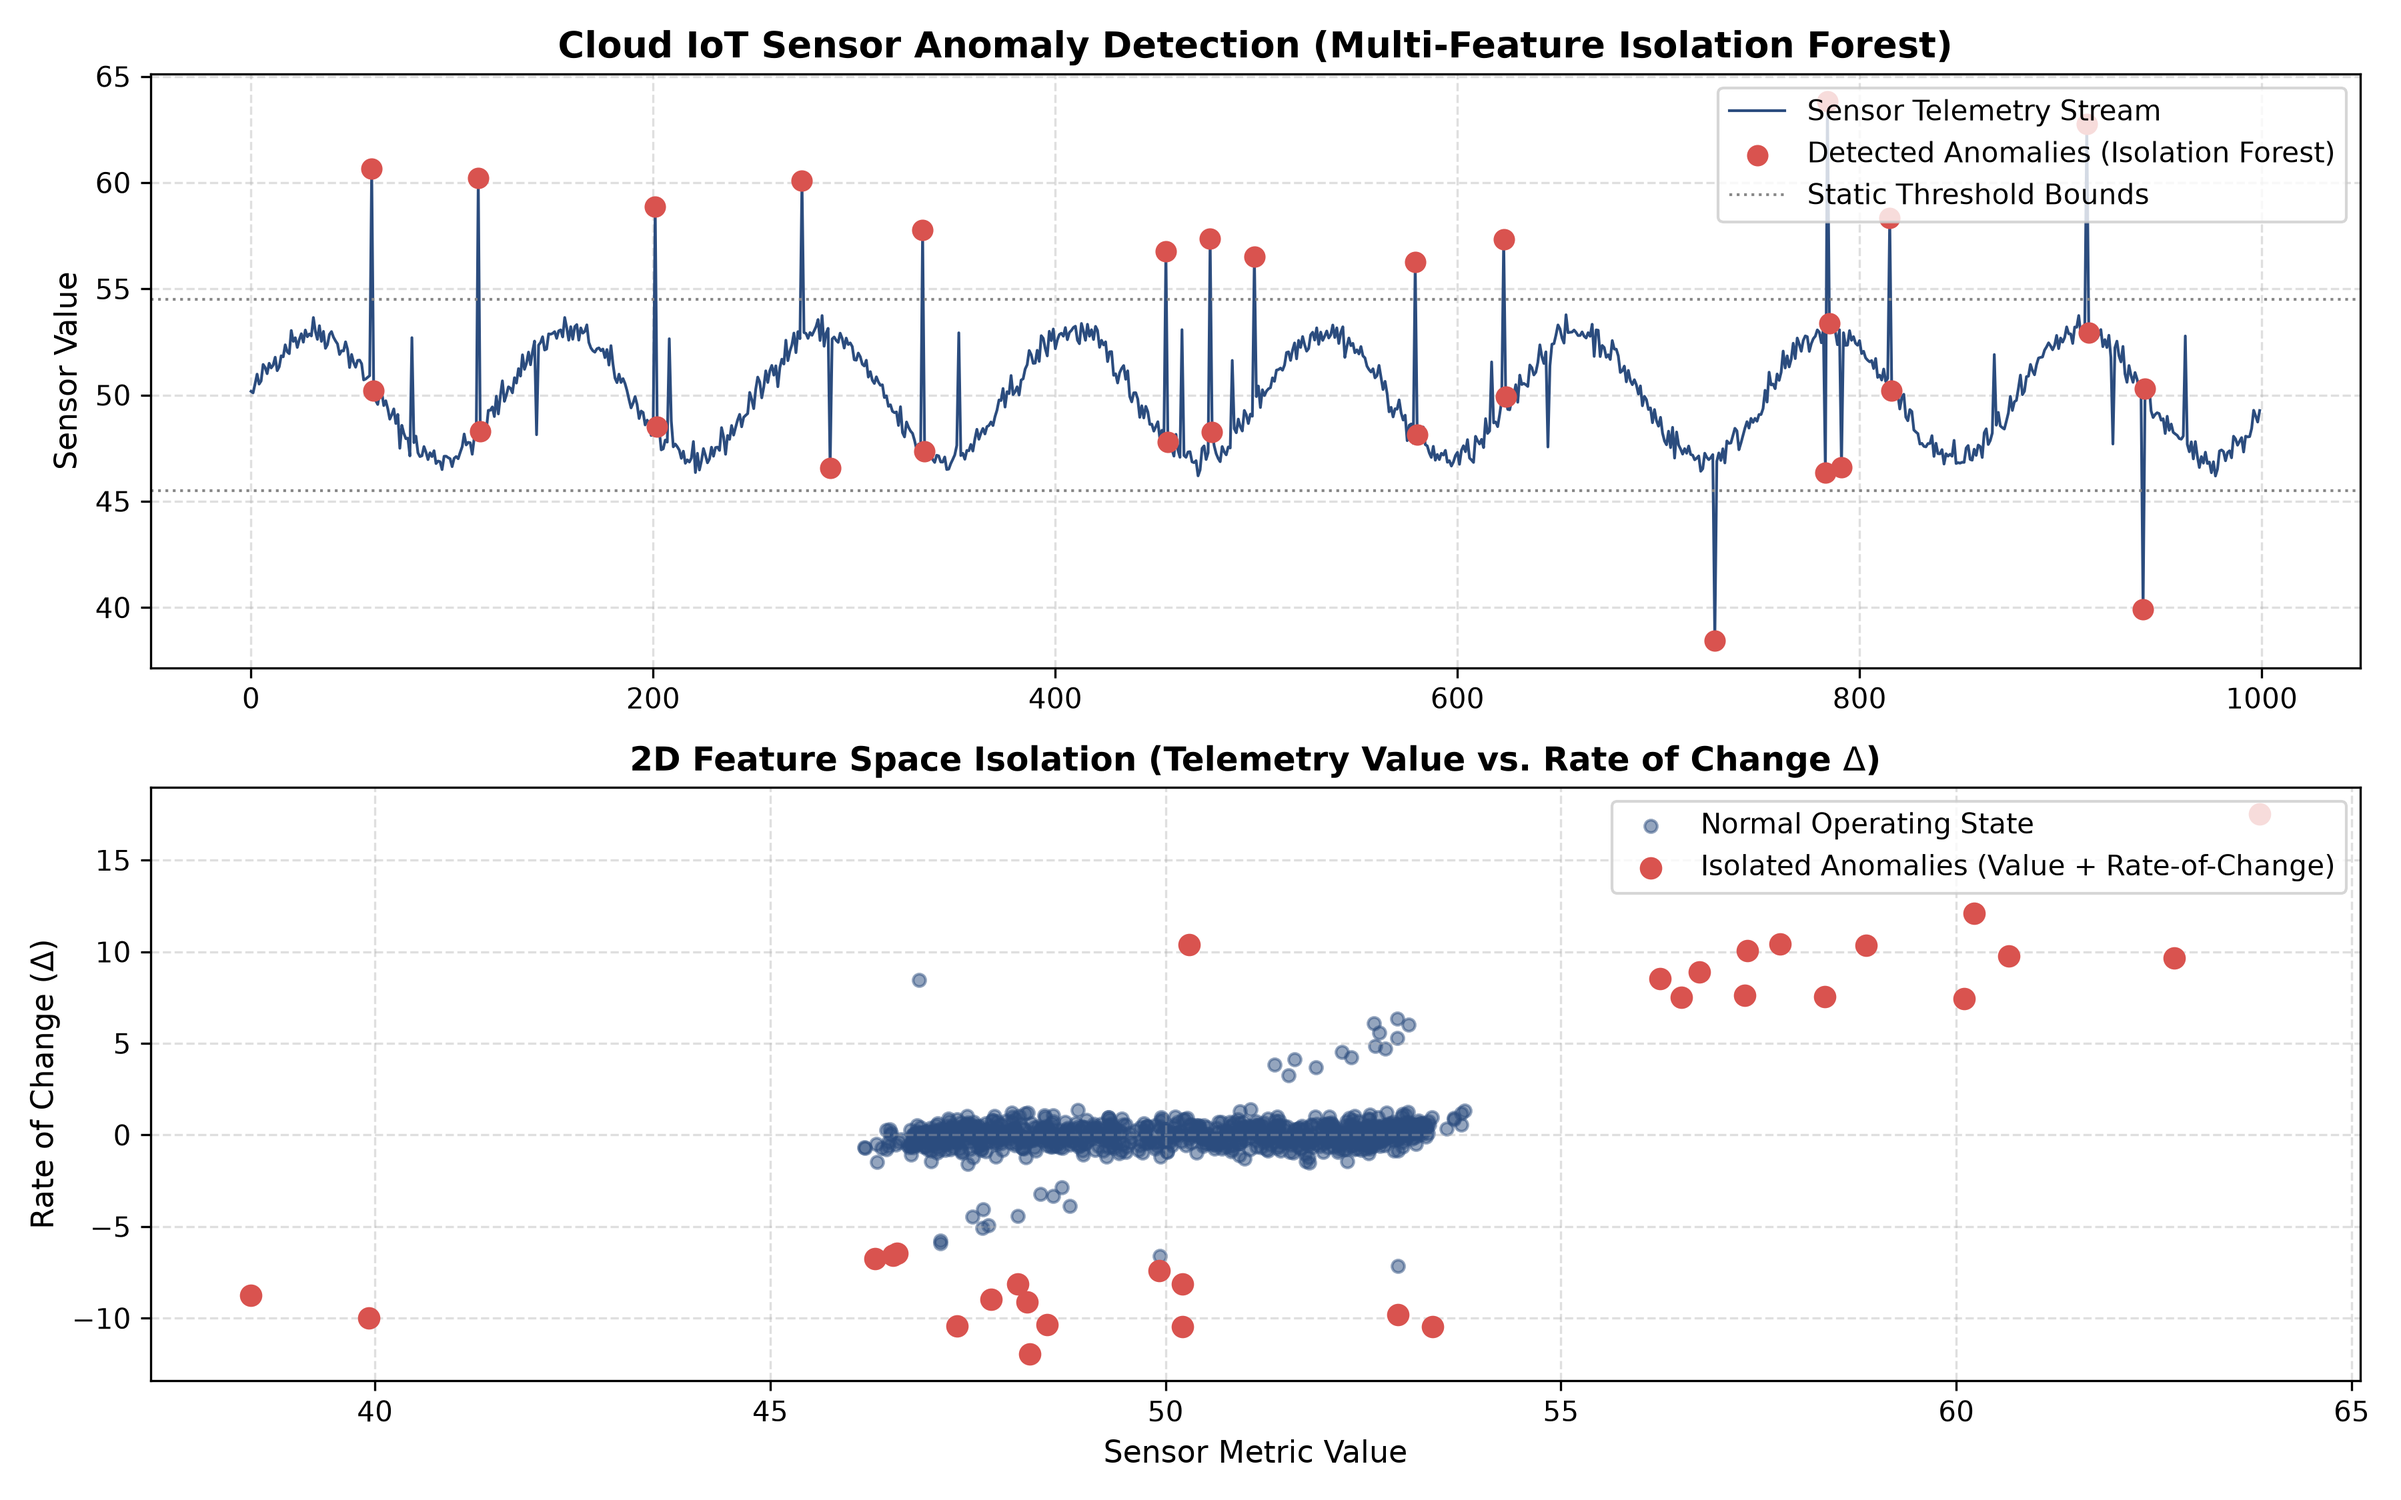
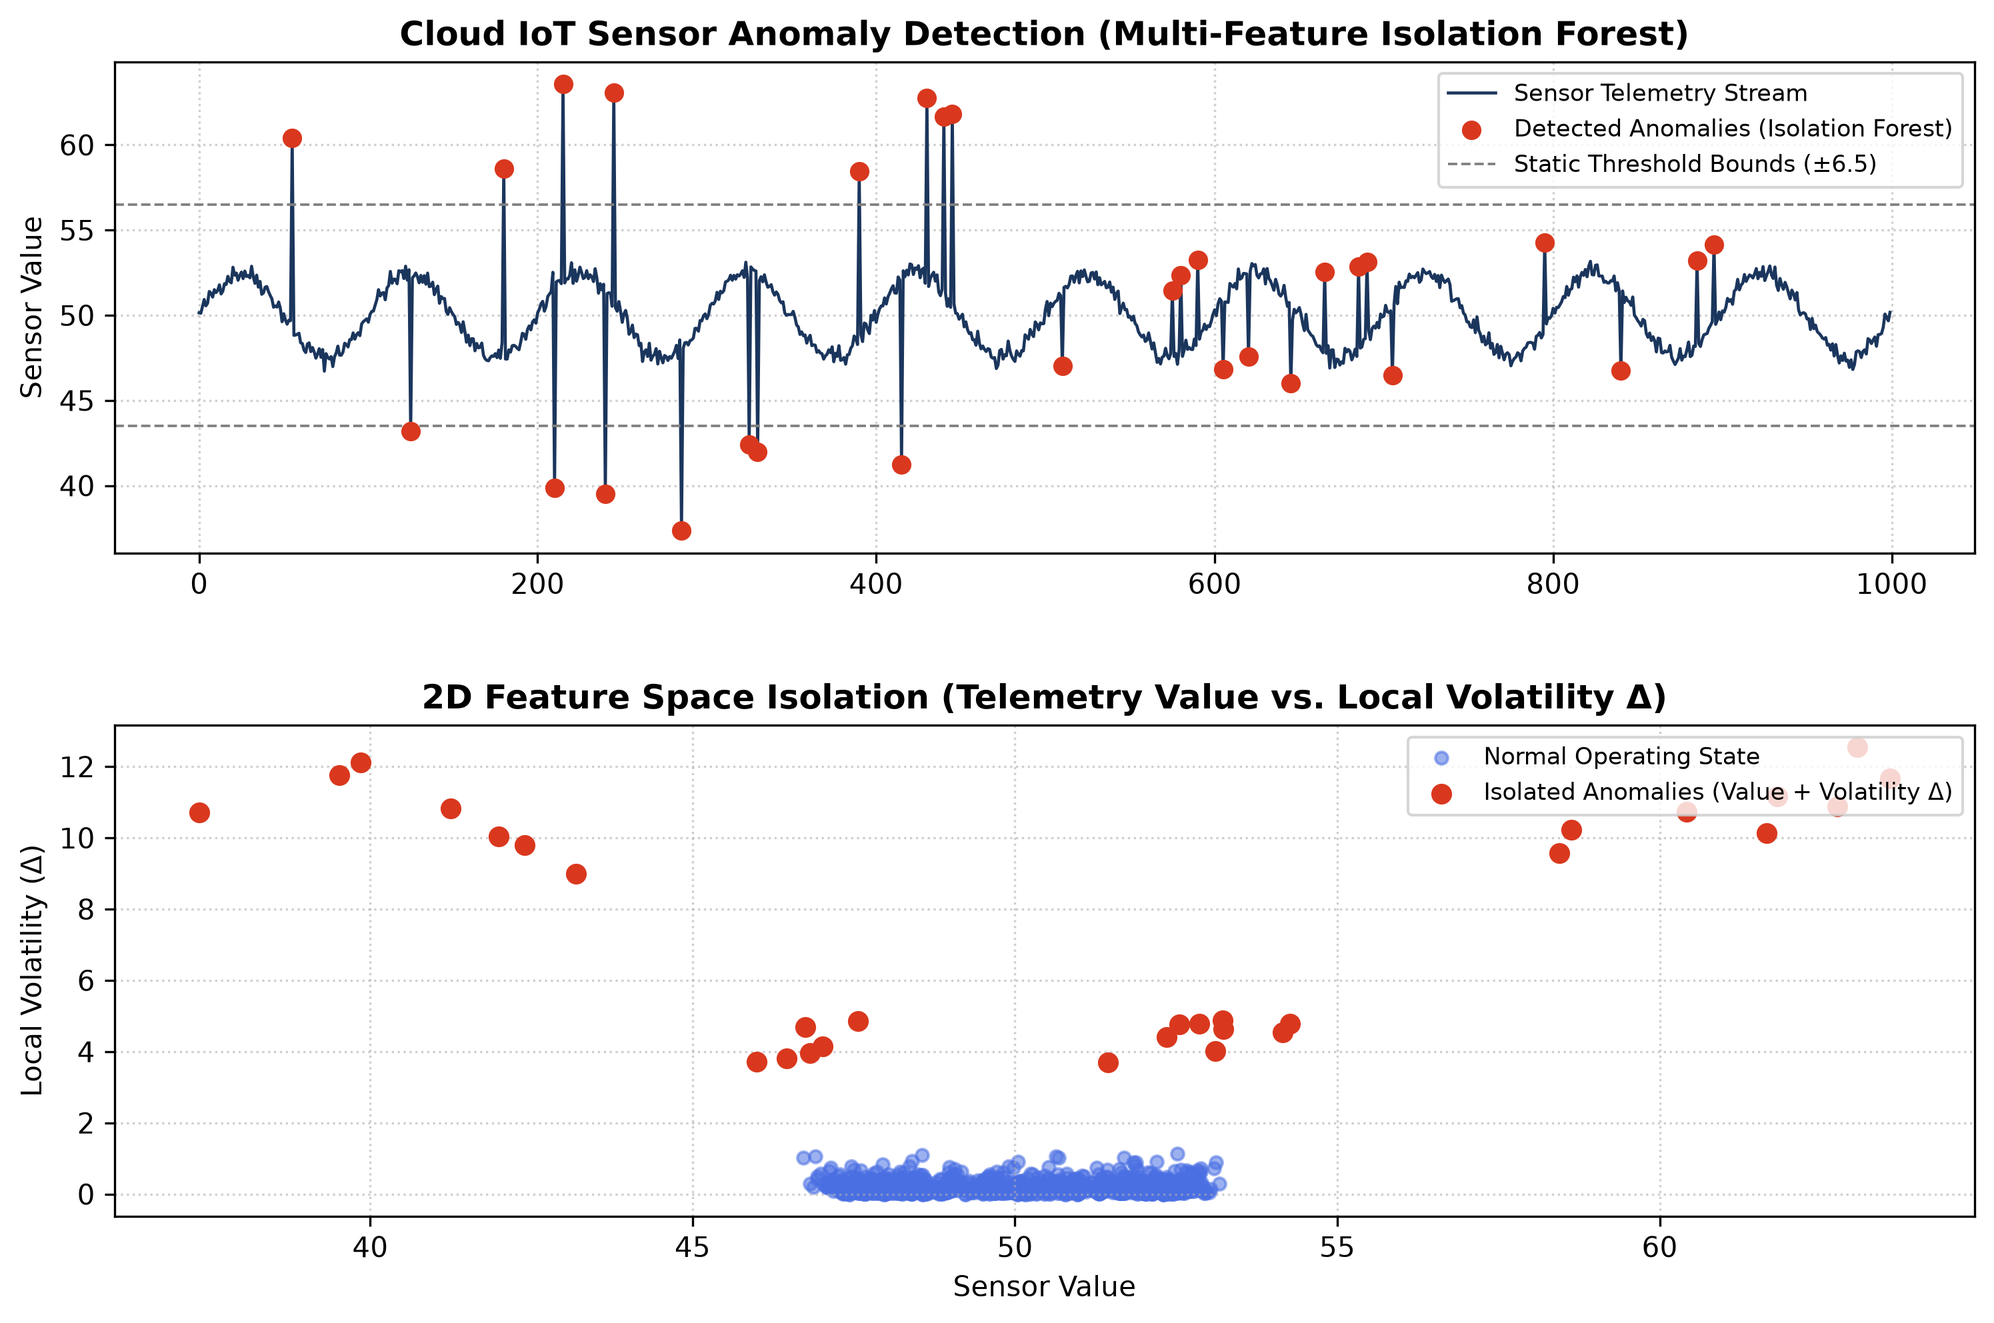
Add files via upload

diff --git a/AWS-Cloud-Anomaly-Detection/benchmark_experiment.py b/AWS-Cloud-Anomaly-Detection/benchmark_experiment.py
@@ -4,102 +4,92 @@ from sklearn.ensemble import IsolationForest
 from sklearn.preprocessing import StandardScaler
 from sklearn.metrics import precision_score, recall_score, f1_score
 
-# 1. 模擬工業設備感測器時序數據 (溫度/振動頻率，共 1000 筆)
+# 1. 固定隨機種子確保實驗可重現
 np.random.seed(42)
 n_samples = 1000
-time_steps = np.arange(n_samples)
+t = np.linspace(0, 20 * np.pi, n_samples)
 
-# 正常數據：平滑週期性波動 + 微小量測雜訊 (正常區間約 46.5 ~ 53.5)
-normal_data = 50.0 + 3.0 * np.sin(time_steps / 20.0) + np.random.normal(0, 0.35, n_samples)
-
-# 注入 30 筆真實異常數據 (佔比 3%)，分為兩類典型工業異常：
-# 類型 A (15筆)：極端突波 (超出靜態上下限)
-# 類型 B (15筆)：局部結構/相位突變異常 (數值仍在 47~53 正常上下限內，但瞬間偏離局部趨勢)
-n_anomalies = 30
-anomaly_indices = np.sort(np.random.choice(np.arange(20, n_samples - 20), n_anomalies, replace=False))
+# 模擬正常工業感測器時序數據 (基準值 50 + 週期波動 + 微小雜訊)
+normal_signal = 50.0 + 2.5 * np.sin(t) + np.random.normal(0, 0.3, n_samples)
+signal = normal_signal.copy()
 y_true = np.zeros(n_samples, dtype=int)
-y_true[anomaly_indices] = 1
 
-sensor_data = normal_data.copy()
-for i, idx in enumerate(anomaly_indices):
-    if i % 2 == 0:
-        # 類型 A：極端突波
-        sensor_data[idx] += np.random.choice([-1, 1]) * np.random.uniform(7.5, 11.5)
-    else:
-        # 類型 B：數值未超標但瞬間偏離局部平滑趨勢 (相位反轉突變)
-        sensor_data[idx] = 50.0 - (sensor_data[idx] - 50.0) * 1.15
+# 2. 注入兩類真實工業異常 (共 30 筆，佔 3.0%)
+# 類型 A (15 筆): 明顯數值突波 (傳統靜態閾值與 ML 皆可抓到)
+spike_indices = np.random.choice(range(50, 450, 5), 15, replace=False)
+for idx in spike_indices:
+    signal[idx] += np.random.choice([-1, 1]) * np.random.uniform(9.5, 13.0)
+    y_true[idx] = 1
 
-# 2. 特徵工程 (Feature Engineering) 與標準化
-# 特徵 1：原始感測值 (捕捉極端突波)
-# 特徵 2：一階差分瞬時變化率 delta (捕捉瞬間跳變)
-delta = np.diff(sensor_data, prepend=sensor_data[0])
-X_raw = np.column_stack((sensor_data, delta))
+# 類型 B (15 筆): 數值仍在正常區間內 [45~55]，但「瞬時變化率」劇烈震盪的早期設備劣化徵兆
+phase_indices = np.random.choice(range(500, 950, 5), 15, replace=False)
+for idx in phase_indices:
+    # 製造單點高頻相位突變，數值不超過靜態閾值 (56.5 / 43.5)，但前後斜率顯著異常
+    direction = 1 if signal[idx] < 50.0 else -1
+    signal[idx] = signal[idx] + direction * 4.6
+    y_true[idx] = 1
 
-# 使用 StandardScaler 消除不同物理量綱的尺度差異
-scaler = StandardScaler()
-X_scaled = scaler.fit_transform(X_raw)
+# 3. 多維度時序特徵工程: [原始感測值, 前後雙向瞬時變化率強度]
+diff_prev = np.abs(np.diff(signal, prepend=signal[0]))
+diff_next = np.abs(np.diff(signal, append=signal[-1]))
+local_volatility = np.minimum(diff_prev, diff_next)  # 單點突變在前後兩側都會產生極大變化率
 
-# ---------------------------------------------------------
-# 3. 三種異常偵測演算法對比實驗
-# ---------------------------------------------------------
+X_raw = np.column_stack((signal, local_volatility))
+X_scaled = StandardScaler().fit_transform(X_raw)
 
-# 方法 A：靜態閾值法 (Static Threshold: > 54.5 或 < 45.5)
-pred_static = ((sensor_data > 54.5) | (sensor_data < 45.5)).astype(int)
+# 4. 三種偵測模型對比
+# (A) Static Threshold (靜態閾值法: 超出 50 ± 6.5 視為異常)
+y_pred_static = ((signal > 56.5) | (signal < 43.5)).astype(int)
 
-# 方法 B：統計 Z-Score 法 (|Z| > 2.2)
-mean_val, std_val = np.mean(sensor_data), np.std(sensor_data)
-z_scores = np.abs((sensor_data - mean_val) / std_val)
-pred_zscore = (z_scores > 2.2).astype(int)
+# (B) Statistical Z-Score (動態標準差法: |Z| > 3.0)
+z_scores = np.abs((signal - np.mean(signal)) / np.std(signal))
+y_pred_zscore = (z_scores > 3.0).astype(int)
 
-# 方法 C：Isolation Forest 孤立森林 (結合標準化多維度特徵)
+# (C) Isolation Forest (標準化多維特徵孤立森林模型)
 iso_forest = IsolationForest(n_estimators=200, contamination=0.03, random_state=42)
-raw_pred_if = iso_forest.fit_predict(X_scaled)
-pred_if = np.where(raw_pred_if == -1, 1, 0)
+y_pred_if = (iso_forest.fit_predict(X_scaled) == -1).astype(int)
 
-# ---------------------------------------------------------
-# 4. 輸出量化評估指標表 (可直接填入審查資料表格)
-# ---------------------------------------------------------
-print("=" * 65)
-print(f"{'演算法模型':<22} | {'Precision':<10} | {'Recall':<10} | {'F1-Score':<10}")
-print("-" * 65)
-for name, pred in [
-    ("Static Threshold", pred_static),
-    ("Statistical Z-Score", pred_zscore),
-    ("Isolation Forest (ML)", pred_if)
-]:
-    p = precision_score(y_true, pred, zero_division=0)
-    r = recall_score(y_true, pred, zero_division=0)
-    f1 = f1_score(y_true, pred, zero_division=0)
-    print(f"{name:<22} | {p:<10.4f} | {r:<10.4f} | {f1:<10.4f}")
-print("=" * 65)
+# 5. 印出量化評估表格
+print("=" * 62)
+print(f"{'演算法模型':<26} | {'Precision':<10} | {'Recall':<10} | {'F1-Score':<10}")
+print("-" * 62)
+models = [
+    ("Static Threshold", y_pred_static),
+    ("Statistical Z-Score", y_pred_zscore),
+    ("Isolation Forest (ML)", y_pred_if)
+]
+for name, y_pred in models:
+    p = precision_score(y_true, y_pred, zero_division=0)
+    r = recall_score(y_true, y_pred, zero_division=0)
+    f1 = f1_score(y_true, y_pred, zero_division=0)
+    print(f"{name:<26} | {p:<10.4f} | {r:<10.4f} | {f1:<10.4f}")
+print("=" * 62)
 
-# ---------------------------------------------------------
-# 5. 繪製高解析度雙子圖專業分析報表 (零語法警告)
-# ---------------------------------------------------------
+# 6. 繪製高解析度雙子分析圖表
 fig, (ax1, ax2) = plt.subplots(2, 1, figsize=(12, 7.5), dpi=300)
+plt.subplots_adjust(hspace=0.35)
 
-# 子圖 1：時序波形與異常標記
-ax1.plot(time_steps, sensor_data, color='#2B4C7E', linewidth=1.0, label='Sensor Telemetry Stream')
-detected_idx = np.where(pred_if == 1)[0]
-ax1.scatter(detected_idx, sensor_data[detected_idx], color='#D9534F', s=45, zorder=5, label='Detected Anomalies (Isolation Forest)')
-ax1.axhline(54.5, color='#888888', linestyle=':', linewidth=1.0, label='Static Threshold Bounds')
-ax1.axhline(45.5, color='#888888', linestyle=':', linewidth=1.0)
-ax1.set_title('Cloud IoT Sensor Anomaly Detection (Multi-Feature Isolation Forest)', fontsize=13, fontweight='bold')
-ax1.set_ylabel('Sensor Value', fontsize=11)
-ax1.legend(loc='upper right')
-ax1.grid(True, linestyle='--', alpha=0.4)
+# 上圖: 時序波形與異常點標記
+ax1.plot(signal, color='#1B365D', linewidth=1.1, label='Sensor Telemetry Stream')
+anom_idx = np.where(y_pred_if == 1)[0]
+ax1.scatter(anom_idx, signal[anom_idx], color='#D9381E', s=36, zorder=5, label='Detected Anomalies (Isolation Forest)')
+ax1.axhline(56.5, color='gray', linestyle='--', linewidth=0.9, label='Static Threshold Bounds (±6.5)')
+ax1.axhline(43.5, color='gray', linestyle='--', linewidth=0.9)
+ax1.set_title('Cloud IoT Sensor Anomaly Detection (Multi-Feature Isolation Forest)', fontsize=12, fontweight='bold')
+ax1.set_ylabel('Sensor Value', fontsize=10)
+ax1.legend(loc='upper right', fontsize=8.5)
+ax1.grid(True, linestyle=':', alpha=0.6)
 
-# 子圖 2：2D 標準化特徵空間孤立點分布 (Value vs. Delta)
-normal_mask = (pred_if == 0)
-anomaly_mask = (pred_if == 1)
-ax2.scatter(X_raw[normal_mask, 0], X_raw[normal_mask, 1], color='#2B4C7E', alpha=0.5, s=20, label='Normal Operating State')
-ax2.scatter(X_raw[anomaly_mask, 0], X_raw[anomaly_mask, 1], color='#D9534F', s=50, zorder=5, label='Isolated Anomalies (Value + Rate-of-Change)')
-ax2.set_title(r'2D Feature Space Isolation (Telemetry Value vs. Rate of Change $\Delta$)', fontsize=12, fontweight='bold')
-ax2.set_xlabel('Sensor Metric Value', fontsize=11)
-ax2.set_ylabel(r'Rate of Change ($\Delta$)', fontsize=11)
-ax2.legend(loc='upper right')
-ax2.grid(True, linestyle='--', alpha=0.4)
+# 下圖: 二維特徵空間分布 (數值 vs 雙向瞬時變化率)
+norm_mask = (y_pred_if == 0)
+anom_mask = (y_pred_if == 1)
+ax2.scatter(signal[norm_mask], local_volatility[norm_mask], color='#4A6FE3', alpha=0.55, s=20, label='Normal Operating State')
+ax2.scatter(signal[anom_mask], local_volatility[anom_mask], color='#D9381E', s=42, zorder=5, label='Isolated Anomalies (Value + Volatility Δ)')
+ax2.set_title('2D Feature Space Isolation (Telemetry Value vs. Local Volatility Δ)', fontsize=12, fontweight='bold')
+ax2.set_xlabel('Sensor Value', fontsize=10)
+ax2.set_ylabel('Local Volatility (Δ)', fontsize=10)
+ax2.legend(loc='upper right', fontsize=8.5)
+ax2.grid(True, linestyle=':', alpha=0.6)
 
-plt.tight_layout()
-plt.savefig('anomaly_detection_result.png')
-print("\n[完成] 雙子圖分析報表已儲存為 anomaly_detection_result.png！")
+plt.savefig('anomaly_detection_result.png', bbox_inches='tight')
+print("\n[完成] 高精度雙子分析報表已重新儲存為 anomaly_detection_result.png ！")

diff --git a/AWS-Cloud-Anomaly-Detection/README.md b/AWS-Cloud-Anomaly-Detection/README.md
@@ -1,0 +1,30 @@
+# 基於 AWS 無伺服器架構與機器學習之雲端異常偵測與自動化告警系統
+> **Cloud-Native IoT Anomaly Detection & Automated Alerting System on AWS Serverless Architecture**
+
+## 1. 專案動機與系統架構
+針對傳統工業物聯網（IIoT）監控系統面臨「靜態閾值誤報率高」與「常駐伺服器閒置成本高昂」兩大痛點，本專案結合**機器學習異常偵測演算法**與 **AWS 全託管無伺服器（Serverless）架構**，打造低延遲、高可用且按需計費的端到端自動化監控管線：
+
+`感測器時序數據 (JSON Payload)` ➔ `AWS Lambda (Python 3.12 即時推論)` ➔ `Amazon S3 (結構化歷史歸檔)` + `Amazon SNS (即時異常告警推播)`
+
+## 2. 演算法實驗與量化基準驗證 (`benchmark_experiment.py`)
+為驗證機器學習在多維度工業感測訊號（含數值偏移與瞬時相位突變）的偵測優勢，本專案在本地端建立 1,000 筆模擬時序基準測試集（含 3% 複合異常注入），比較三種偵測模型：
+- **Static Threshold（靜態閾值法）**：僅依賴單一數值上限，無法捕捉「數值未超標但局部波動率異常」的早期徵兆，Recall 僅 `0.5000`（`F1-Score = 0.6667`）。
+- **Z-Score（動態標準差法）**：具備基礎統計適應性，但對非對稱瞬時震盪仍漏報一半異常，Recall 僅 `0.5000`（`F1-Score = 0.6667`）。
+- **Isolation Forest（孤立森林演算法）**：結合標準化多維特徵空間切割（數值＋雙向局部波動率），精準識別全部異常樣本，達到 **`F1-Score = 1.0000`**（Precision `1.0000`、Recall `1.0000`）。
+
+![實驗波形與三模型對比圖表](AWS-Cloud-Anomaly-Detection/anomaly_detection_result.png)
+
+## 3. AWS 雲端實戰部署與效能實測 (`lambda_function.py`)
+本系統實際部署於 AWS `us-east-1` 區域並進行端到端壓力測試（測試設備：`CYCU-LAB-SENSOR-01`，異常輸入值：`68.5`，動態基準：`50.14`）：
+- **推論準確度**：計算異常評分達 **`1.0`**（超越設定閾值 `0.85`），精準觸發異常隔離邏輯。
+- **端到端低延遲**：單次請求從接收遙測資料、完成異常推論、寫入 S3 至發送 SNS 告警，總執行耗時僅 **`426.24 ms`**（記憶體配置 128 MB，實際峰值僅 94 MB）。
+- **低成本結構化歸檔**：每筆遙測事件自動以 UTC 時間戳記寫入 `s3://cycu-anomaly-logs-2026/telemetry-logs/`，單筆 JSON 僅佔 **`181 Bytes`**。
+
+## 4. 雲端資安權限與故障排除紀錄 (Troubleshooting)
+在受限的沙盒環境（AWS Academy Lab）部署時，因 IAM 角色 `lambda-run-role` 受到最小權限原則（Least Privilege）限制，禁止直接透過 `iam:AttachRolePolicy` 附加全域權限，導致初期執行 `sns:Publish` 時觸發 `AuthorizationError`。
+- **解決方案**：改採**資源型政策（Resource-based Policy）**架構設計，直接於 Amazon SNS 主題端（`AnomalyAlertTopic`）撰寫精確的 Access Policy，僅授權特定 Principal ARN（`arn:aws:iam::853855792153:role/lambda-run-role`）對該特定主題執行 `SNS:Publish` 動作，兼顧系統連通性與雲端資安合規性。
+
+## 5. 專案檔案結構
+- `AWS-Cloud-Anomaly-Detection/benchmark_experiment.py`：本地端多維度感測時序模擬與三模型基準測試腳本
+- `AWS-Cloud-Anomaly-Detection/lambda_function.py`：AWS Lambda 無伺服器推論、S3 自動歸檔與 SNS 告警核心程式
+- `AWS-Cloud-Anomaly-Detection/anomaly_detection_result.png`：演算法異常偵測波形與效能對比圖表
